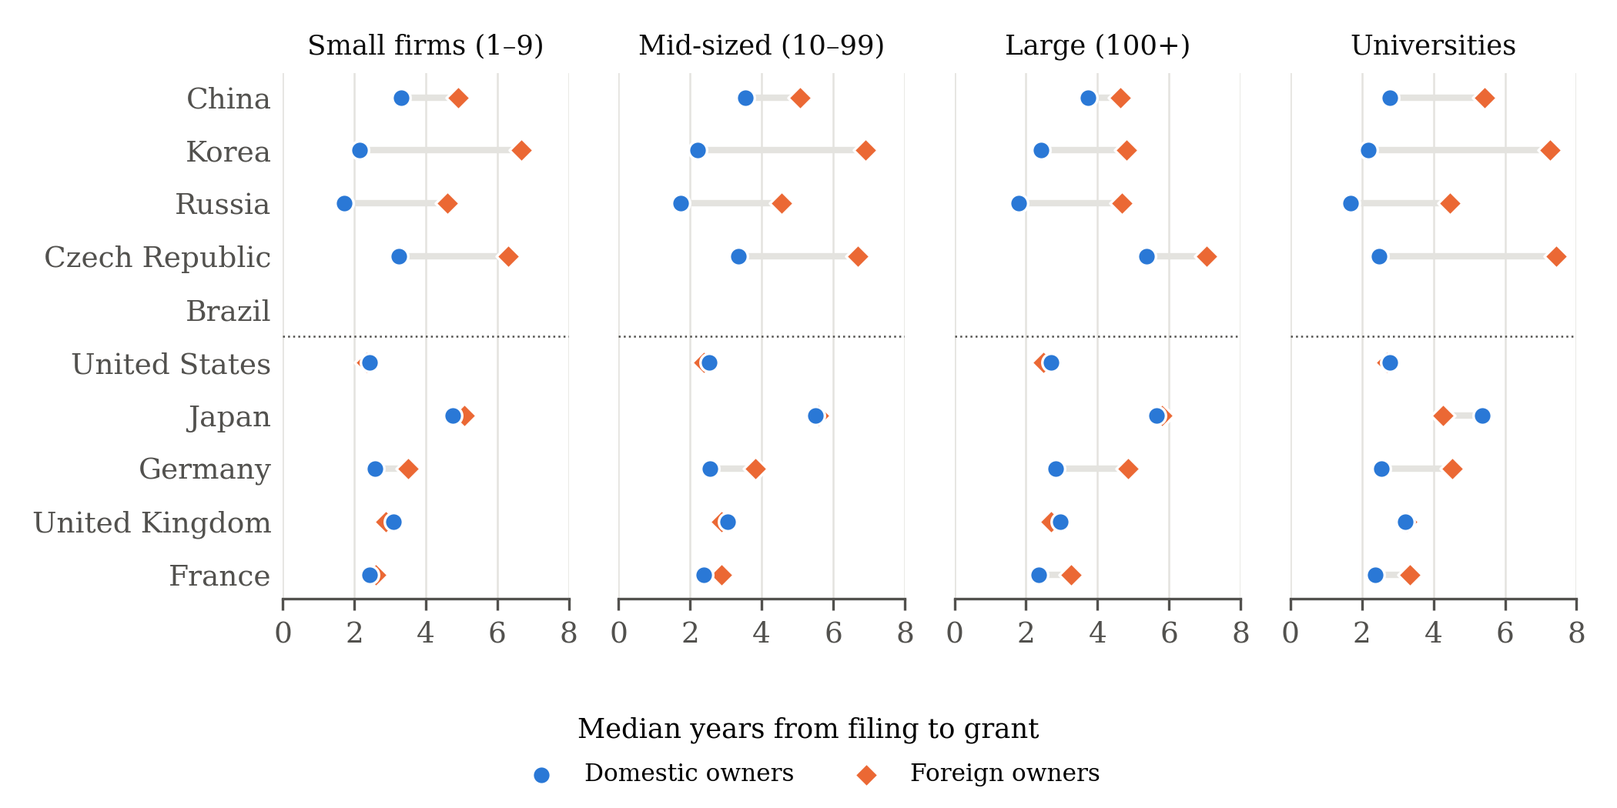
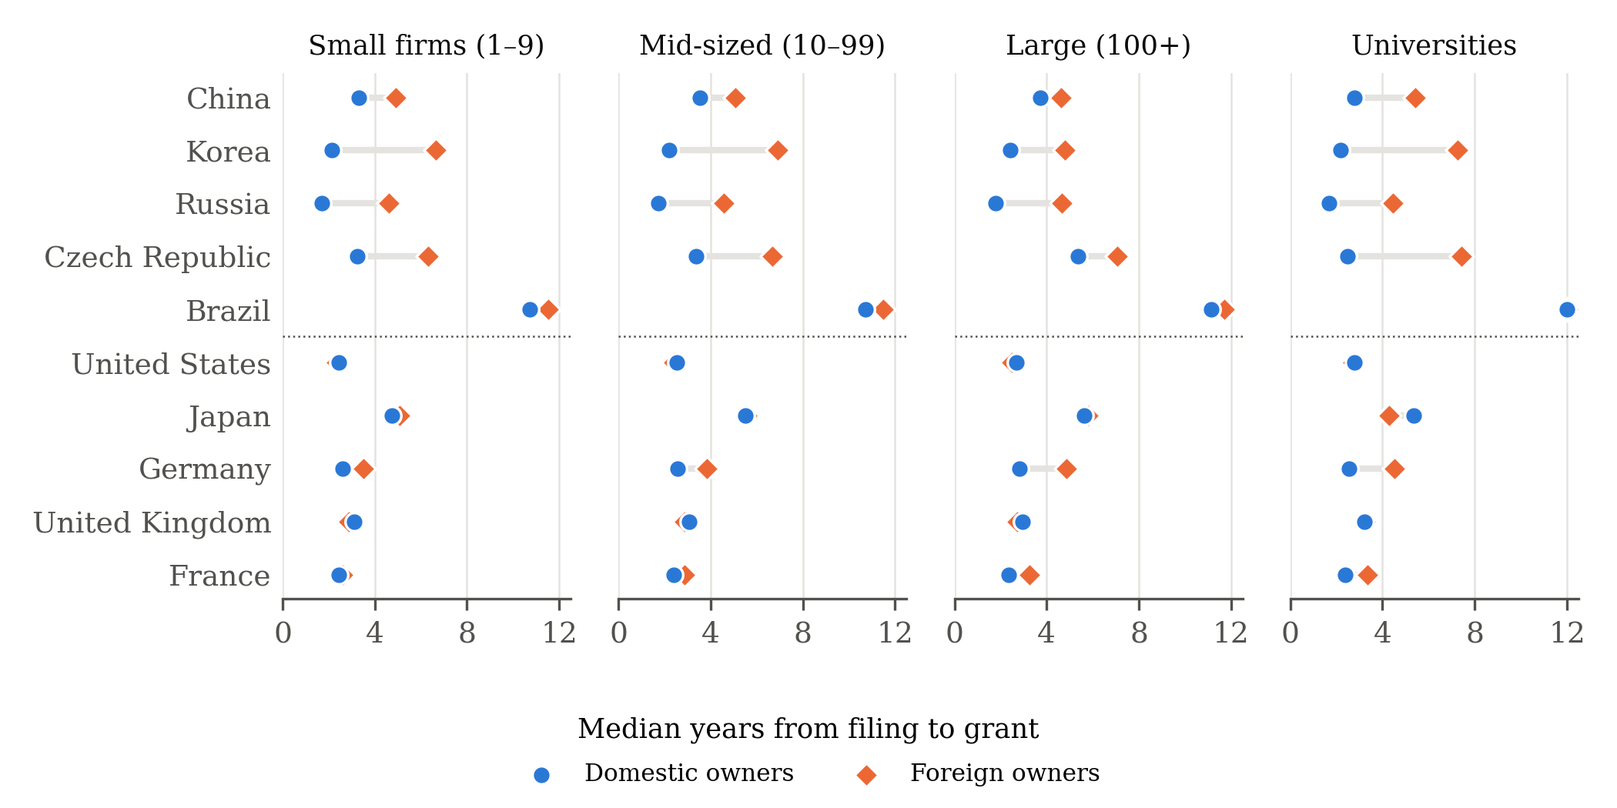
Proofread AER version: stale notes, lever sums, Brazil in Figure S1
Table 2 note listed Taiwan; Figure S1 clipped Brazil; mid-sized lever stated separately ($150m)
instead of the $280m sum; sale-test sentence on mid-sized and large firms matched to Table S5;
Russian all-owner s.e. omitted in Table S8; figure notes and small wording fixes in both versions.

diff --git a/tables/table2.tex b/tables/table2.tex
@@ -40,6 +40,6 @@ Observations & 1{,}274{,}852 & 1{,}274{,}852 & 153{,}531 & 162{,}173 & 869{,}955
 \end{tabular*}
 
 \vspace{4pt}
-\begin{minipage}{\linewidth}\footnotesize\emph{Notes:} Linear probability models of survival eight years after grant; granted patents of firms and universities filed 2000--2005, grant lag up to ten years; coefficients in percentage points. The coefficient on domestic owner $\times$ EM office is $\delta$ in equation~\eqref{eq:did}: the extra domestic--foreign gap in the emerging-market offices (China, Korea, Russia, Taiwan, Czech Republic) relative to the advanced-economy offices (United States, Japan, Germany, United Kingdom, France). Column 1: office $\times$ filing-year effects only. Columns 2--6: office-specific effects of filing year, technology field (35), citation bin (forward citations to the family: 0, 1, 2, 3--4, 5--9, 10--19, 20 or more) and grant lag in whole years, a common domestic $\times$ grant-lag slope, and in column 2 office $\times$ owner-group effects; columns 3--6 are estimated separately for each owner group. The domestic-owner coefficient is the advanced-economy gap at the mean grant lag. Firm size: inventions filed worldwide in 2000--2005 by the owner. Standard errors clustered by owner in parentheses; inference across offices in \SuppTab{S3}{tab:rich}. $^{*}$~$p<0.1$, $^{**}$~$p<0.05$, $^{***}$~$p<0.01$.
+\begin{minipage}{\linewidth}\footnotesize\emph{Notes:} Linear probability models of survival eight years after grant; granted patents of firms and universities filed 2000--2005, grant lag up to ten years (in Brazil, longer if survival eight years after grant is observed); coefficients in percentage points. The coefficient on domestic owner $\times$ EM office is $\delta$ in equation~\eqref{eq:did}: the extra domestic--foreign gap in the emerging-market offices (China, Korea, Russia, Czech Republic, Brazil) relative to the advanced-economy offices (United States, Japan, Germany, United Kingdom, France). Column 1: office $\times$ filing-year effects only. Columns 2--6: office-specific effects of filing year, technology field (35), citation bin (forward citations to the family: 0, 1, 2, 3--4, 5--9, 10--19, 20 or more) and grant lag in whole years, a common domestic $\times$ grant-lag slope, and in column 2 office $\times$ owner-group effects; columns 3--6 are estimated separately for each owner group. The domestic-owner coefficient is the advanced-economy gap at the mean grant lag. Firm size: inventions filed worldwide in 2000--2005 by the owner. Standard errors clustered by owner in parentheses; inference across offices in \SuppTab{S3}{tab:rich}. $^{*}$~$p<0.1$, $^{**}$~$p<0.05$, $^{***}$~$p<0.01$.
 \end{minipage}
 \end{table}

diff --git a/sections/appendix.tex b/sections/appendix.tex
@@ -54,8 +54,7 @@ emerging-market offices I use the five with the most domestic firm patents.
 \includegraphics[width=\textwidth]{figures/fig1_grant_lags.png}
 \caption{Grant lags by owner and firm size}\label{fig:lags}
 \figurenotes{Median years from filing to the first grant publication, patents of Table~\ref{tab:sample}; firm size
-as in Table~\ref{tab:sample}. Circles: domestic owners; diamonds: foreign owners. No Czech firm has 100 or more
-inventions. Many foreign applications enter through the international (PCT) route, which adds up to 30 months before
+as in Table~\ref{tab:sample}. Circles: domestic owners; diamonds: foreign owners. Only one Czech firm, with one patent, has 100 or more inventions; in Brazil, where patents are granted 11--12 years after filing, domestic and foreign owners wait about as long. Many foreign applications enter through the international (PCT) route, which adds up to 30 months before
 national examination begins. Source: em-patent-value output/sample\_lags.csv.}
 \end{figure}
 
@@ -112,7 +111,7 @@ calibrate the markets-for-technology lever.
 \centering
 \includegraphics[width=\textwidth]{figures/fig6_constraints_country.png}
 \caption{Owner-constraint tests by country}\label{fig:constraints-country}
-\figurenotes{Point estimates with 95\% confidence intervals, in percentage points; blue: emerging economies, orange: advanced economies; squares: all firms, circles: small firms (1--9 inventions filed worldwide in 2000--2005), triangles: universities. Arrows: interval beyond the axis; a number replaces a point beyond it. The estimates of Figure~\ref{fig:constraints} by country of origin (A) or office (B, C), specified as in the notes to Figure~\ref{fig:constraints}. n/a: no sales of granted patents recorded (Korea records changes of owner only before grant).}
+\figurenotes{Point estimates with 95\% confidence intervals, in percentage points; blue: emerging economies, orange: advanced economies; squares: all firms, circles: small firms (1--9 inventions filed worldwide in 2000--2005), triangles: universities. Arrows: interval beyond the axis; a number replaces a point beyond it. The estimates of Figure~\ref{fig:constraints} by country of origin (A) or office (B, C), specified as in the notes to Figure~\ref{fig:constraints}. n/a: no sales of granted patents recorded (Korea records changes of owner only before grant; the Czech Republic and the United States record none), records that do not name the owners (Russia, Japan, the United Kingdom) or too few sales (Brazil).}
 \end{figure}
 
 \begin{table}[ht]

diff --git a/aeri/sections/conclusion.tex b/aeri/sections/conclusion.tex
@@ -6,13 +6,12 @@ economy of patent policy favours them for reasons unrelated to their returns.
 
 First, the cheapest and most popular instrument does least. Fee discounts are easy to legislate, visible to small
 firms and cheap, which helps explain their spread. But they mostly pay owners for patents they would have kept
-anyway: with full take-up, China would transfer about \$8 million a cohort to its small firms and universities
-while the returns they earn from their patents would rise by about half a million. Fee relief targets a constraint
+anyway: with full take-up, China would transfer about \$8 million a cohort to its small and mid-sized firms and universities while the returns they earn from their patents would rise by about half a million. Fee relief targets a constraint
 that does not bind.
 
 Second, the returns lie in institutions that are harder to build and whose gains are diffuse. Patents that small
 Chinese firms sell to unrelated buyers survive much longer, and moving such patents to owners able to use them is
-worth up to \$130--280 million a cohort. Markets for technology need registries that record who bought what, courts
+worth up to \$130 million a cohort for small firms and \$150 million for mid-sized firms. Markets for technology need registries that record who bought what, courts
 that enforce licences and intermediaries that match sellers with buyers; even among the ten offices studied, only
 China, Brazil, Germany and France record who the new owner is. Such investments lack a natural constituency: sellers are
 small and dispersed, buyers are often large or foreign firms, and the payoff arrives years later and is hard to
@@ -34,6 +33,5 @@ levers are research capability and links to frontier know-how, and, at the margi
 change hands. Russia, where domestic patents fall well behind at equal quality, is the case in which the owner
 problem may run deeper and deserves closer study.
 
-Two limitations stand out. Only five emerging economies record lapses well enough to study; one of them, Korea, became
-high-income in 2001, and Brazil and the Czech Republic contribute few domestic patents. And renewal values measure private value to the owner, not the social value of the
+Two limitations stand out. Only five emerging economies record lapses well enough to study; one of them, Korea, has been classed as high income since 2001, and Brazil and the Czech Republic contribute few domestic patents. And renewal values measure private value to the owner, not the social value of the
 knowledge a patent spreads.

diff --git a/sections/conclusion.tex b/sections/conclusion.tex
@@ -6,13 +6,12 @@ economy of patent policy favours them for reasons unrelated to their returns.
 
 First, the cheapest and most popular instrument does least. Fee discounts are easy to legislate, visible to small
 firms and cheap, which helps explain their spread. But they mostly pay owners for patents they would have kept
-anyway: with full take-up, China would transfer about \$8 million a cohort to its small firms and universities
-while the returns they earn from their patents would rise by about half a million. Fee relief targets a constraint
+anyway: with full take-up, China would transfer about \$8 million a cohort to its small and mid-sized firms and universities while the returns they earn from their patents would rise by about half a million. Fee relief targets a constraint
 that does not bind.
 
 Second, the returns lie in institutions that are harder to build and whose gains are diffuse. Patents that small
 Chinese firms sell to unrelated buyers survive much longer, and moving such patents to owners able to use them is
-worth up to \$130--280 million a cohort. Markets for technology need registries that record who bought what, courts
+worth up to \$130 million a cohort for small firms and \$150 million for mid-sized firms. Markets for technology need registries that record who bought what, courts
 that enforce licences and intermediaries that match sellers with buyers; even among the ten offices studied, only
 China, Brazil, Germany and France record who the new owner is. Such investments lack a natural constituency: sellers are
 small and dispersed, buyers are often large or foreign firms, and the payoff arrives years later and is hard to
@@ -34,6 +33,5 @@ levers are research capability and links to frontier know-how, and, at the margi
 change hands. Russia, where domestic patents fall well behind at equal quality, is the case in which the owner
 problem may run deeper and deserves closer study.
 
-Two limitations stand out. Only five emerging economies record lapses well enough to study; one of them, Korea, became
-high-income in 2001, and Brazil and the Czech Republic contribute few domestic patents. And renewal values measure private value to the owner, not the social value of the
+Two limitations stand out. Only five emerging economies record lapses well enough to study; one of them, Korea, has been classed as high income since 2001, and Brazil and the Czech Republic contribute few domestic patents. And renewal values measure private value to the owner, not the social value of the
 knowledge a patent spreads.

diff --git a/aeri/sections/supplement_body.tex b/aeri/sections/supplement_body.tex
@@ -54,8 +54,7 @@ emerging-market offices I use the five with the most domestic firm patents.
 \includegraphics[width=\textwidth]{figures/fig1_grant_lags.png}
 \caption{Grant lags by owner and firm size}\label{fig:lags}
 \figurenotes{Median years from filing to the first grant publication, patents of Table~1; firm size
-as in Table~1. Circles: domestic owners; diamonds: foreign owners. No Czech firm has 100 or more
-inventions. Many foreign applications enter through the international (PCT) route, which adds up to 30 months before
+as in Table~1. Circles: domestic owners; diamonds: foreign owners. Only one Czech firm, with one patent, has 100 or more inventions; in Brazil, where patents are granted 11--12 years after filing, domestic and foreign owners wait about as long. Many foreign applications enter through the international (PCT) route, which adds up to 30 months before
 national examination begins. Source: em-patent-value output/sample\_lags.csv.}
 \end{figure}
 
@@ -112,7 +111,7 @@ calibrate the markets-for-technology lever.
 \centering
 \includegraphics[width=\textwidth]{figures/fig6_constraints_country.png}
 \caption{Owner-constraint tests by country}\label{fig:constraints-country}
-\figurenotes{Point estimates with 95\% confidence intervals, in percentage points; blue: emerging economies, orange: advanced economies; squares: all firms, circles: small firms (1--9 inventions filed worldwide in 2000--2005), triangles: universities. Arrows: interval beyond the axis; a number replaces a point beyond it. The estimates of Figure~1 by country of origin (A) or office (B, C), specified as in the notes to Figure~1 of the paper. n/a: no sales of granted patents recorded (Korea records changes of owner only before grant).}
+\figurenotes{Point estimates with 95\% confidence intervals, in percentage points; blue: emerging economies, orange: advanced economies; squares: all firms, circles: small firms (1--9 inventions filed worldwide in 2000--2005), triangles: universities. Arrows: interval beyond the axis; a number replaces a point beyond it. The estimates of Figure~1 by country of origin (A) or office (B, C), specified as in the notes to Figure~1 of the paper. n/a: no sales of granted patents recorded (Korea records changes of owner only before grant; the Czech Republic and the United States record none), records that do not name the owners (Russia, Japan, the United Kingdom) or too few sales (Brazil).}
 \end{figure}
 
 \begin{table}[ht]

diff --git a/tables/tabS_patentvalues.tex b/tables/tabS_patentvalues.tex
@@ -15,7 +15,7 @@ China          & $33^{***}$ & $29^{***}$ & $72^{***}$ & $52^{**}$ & $-59^{***}$ 
 Korea          & $30^{***}$ & $65^{***}$ & $146^{***}$ & $16$ & $60^{**}$ \\
                & (12) & (11) & (19) & (12) & (30) \\
 Russia         & $-74$ & $-3$ & $5$ & $403$ & -- \\
-               & (19994989) & (61) & (84) & (825) &  \\
+               &  & (61) & (84) & (825) &  \\
 Czech Rep.     & $-3$ & $9$ & $-12$ & -- & -- \\
                & (16) & (22) & (20) &  &  \\
 Brazil         & $7$ & $7$ & $-15$ & $23$ & $13$ \\
@@ -35,7 +35,7 @@ France         & $-4$ & $0$ & $6$ & $-6$ & $-38^{*}$ \\
 \bottomrule
 \end{tabular}
 \begin{tablenotes}\footnotesize
-\item \emph{Notes:} Posterior median value at grant of each patent from the learning model with a common prior ($d=0.85$; 2024 PPP dollars), regressed on domestic owner with fee-path $\times$ citation-band and field effects, one regression per office and owner group (all owners: with owner-group effects); firm size by corporate group. Entries are the percentage difference in value, $100(e^{b}-1)$, with delta-method standard errors clustered by owner in parentheses; stars test $b$ on the log scale. Russian values are not identified (\PaperRef{Section~5}{Section~\ref{sec:values}}) and are shown for completeness. --: fewer than 100 domestic patents. $^{*}$~$p<0.1$, $^{**}$~$p<0.05$, $^{***}$~$p<0.01$.
+\item \emph{Notes:} Posterior median value at grant of each patent from the learning model with a common prior ($d=0.85$; 2024 PPP dollars), regressed on domestic owner with fee-path $\times$ citation-band and field effects, one regression per office and owner group (all owners: with owner-group effects); firm size by corporate group. Entries are the percentage difference in value, $100(e^{b}-1)$, with delta-method standard errors clustered by owner in parentheses; stars test $b$ on the log scale. Russian values are not identified (\PaperRef{Section~5}{Section~\ref{sec:values}}) and are shown for completeness; the standard error of the all-owner estimate is too large to report. --: fewer than 100 domestic patents. $^{*}$~$p<0.1$, $^{**}$~$p<0.05$, $^{***}$~$p<0.01$.
 \end{tablenotes}
 \end{threeparttable}
 \end{table}

diff --git a/aeri/sections/introduction.tex b/aeri/sections/introduction.tex
@@ -28,8 +28,7 @@ First, the raw shortfall reflects what is patented. Domestic patents in emerging
 than foreign ones and are granted sooner. Comparing patents with the same citations, technology field and grant lag,
 emerging-market firms keep their patents about as long as comparable firms in the advanced economies
 (Section~\ref{sec:survival}): small firms are level, and mid-sized and large firms 5--8 percentage points ahead.
-Office by office, Chinese mid-sized firms and Korean firms are ahead, while Russia, Czech Republic and Brazil firms are
-behind.
+Office by office, Chinese mid-sized firms and Korean firms are ahead, while Russian firms and mid-sized Czech and Brazilian firms are behind.
 
 Second, three tests look for owner constraints (Section~\ref{sec:constraints}). Two find none: owners keep the home
 patent of an invention longer than its foreign patents, more so in the emerging economies, and credit crunches do not
@@ -50,8 +49,7 @@ the owner matters: once sold to an unrelated firm, Chinese university patents su
 
 I close by pricing the policy levers on a common scale (Section~\ref{sec:stake}). Had every eligible owner taken up
 China's, Korea's and Brazil's fee discounts, the returns from a cohort of patents would have risen by about a million
-dollars or less. Had small Chinese firms' patents earned what they earn in buyers' hands, returns would have risen by up to
-\$130 million per cohort, or \$280 million with mid-sized firms; moving Chinese university patents to firms is worth
+dollars or less. Had small Chinese firms' patents earned what they earn in buyers' hands, returns would have risen by up to \$130 million per cohort, and by up to \$150 million for mid-sized firms; moving Chinese university patents to firms is worth
 up to \$460 million, and raising their returns to what foreign universities' patents earn in China at equal
 citations, \$180--320 million. These are
 rough private returns, not welfare, but the ordering is clear: the gains lie in markets for technology and in what

diff --git a/tables/table1.tex b/tables/table1.tex
@@ -45,7 +45,7 @@ All offices    &   & 110{,}280 & 23{,}078 & 8{,}683 & 13{,}296 & 57{,}221 & 19{,
 \bottomrule
 \end{tabular}
 \begin{tablenotes}\footnotesize
-\item \emph{Notes:} Granted invention patents filed 2000--2005 with a grant lag of up to ten years; individual owners and owners of unknown type excluded. Firm size: inventions (DOCDB families) filed worldwide in 2000--2005 by the owner (harmonised applicants linked by name and by shared patent families); small 1--9, mid-sized 10--99, large 100 or more. Univ.: universities and public research organisations. Panel B: distinct harmonised applicants with at least one sample patent in the office, classed by the size of their group. An owner patenting in several offices is counted in each; All offices counts it once among domestic and once among foreign owners, so the two totals overlap and fall short of the sums over offices. Source: PATSTAT Global, autumn 2025.
+\item \emph{Notes:} Granted invention patents filed 2000--2005 with a grant lag of up to ten years (in Brazil, longer if survival eight years after grant is observed by mid-2025); individual owners and owners of unknown type excluded. Firm size: inventions (DOCDB families) filed worldwide in 2000--2005 by the owner (harmonised applicants linked by name and by shared patent families); small 1--9, mid-sized 10--99, large 100 or more. Univ.: universities and public research organisations. Panel B: distinct harmonised applicants with at least one sample patent in the office, classed by the size of their group. An owner patenting in several offices is counted in each; All offices counts it once among domestic and once among foreign owners, so the two totals overlap and fall short of the sums over offices. Source: PATSTAT Global, autumn 2025.
 \end{tablenotes}
 \end{threeparttable}
 \end{table}

diff --git a/aeri/sections/constraints.tex b/aeri/sections/constraints.tex
@@ -54,7 +54,7 @@ Chinese firms' patents by 11.4 points, against 3.5 in Germany and France, a diff
 Buyers pick good patents everywhere, so the premium itself does not measure what a sale adds; the informative part is
 how much larger it is for small Chinese firm sellers. Because few small German and French firms sell to unrelated
 buyers, the difference is imprecise; counted from grant it is 3.8, and with all recorded transfers in the seven
-offices that record them, 7.0. For mid-sized and large firms there is no difference.
+offices that record them, 7.0. For mid-sized firms the difference is small and imprecise (0.4, and 4.8 counted from grant); for large firms it is negative.
 
 \paragraph{Universities.} Universities behave differently from firms on two of the three tests. Emerging-market
 universities keep the home patent 7.5 points longer than the same invention's foreign patents, against 20.8 for
@@ -72,5 +72,5 @@ discounts, so the test is small against large firms rather than emerging against
 small owners (70\% in the first three fee-years after grant, raised to 85\% and extended to six fee-years in 2016 and
 to ten in 2018) barely changes small firms' lapses: a 10\% lower fee lowers their lapse rate, 3.6\% a year, by about
 0.2\% of its level, not significantly, measured over all eligible firms because take-up is not observed. Small US
-firms respond to changes in the three US maintenance fees about ten times as strongly (2.6\% for a 10\% fee change). Small Chinese firms are not
+firms respond to changes in the three US maintenance fees more than ten times as strongly (2.6\% for a 10\% fee change). Small Chinese firms are not
 more fee-sensitive than small US firms.

diff --git a/sections/constraints.tex b/sections/constraints.tex
@@ -54,7 +54,7 @@ Chinese firms' patents by 11.4 points, against 3.5 in Germany and France, a diff
 Buyers pick good patents everywhere, so the premium itself does not measure what a sale adds; the informative part is
 how much larger it is for small Chinese firm sellers. Because few small German and French firms sell to unrelated
 buyers, the difference is imprecise; counted from grant it is 3.8, and with all recorded transfers in the seven
-offices that record them, 7.0. For mid-sized and large firms there is no difference.
+offices that record them, 7.0. For mid-sized firms the difference is small and imprecise (0.4, and 4.8 counted from grant); for large firms it is negative.
 
 \paragraph{Universities.} Universities behave differently from firms on two of the three tests. Emerging-market
 universities keep the home patent 7.5 points longer than the same invention's foreign patents, against 20.8 for
@@ -72,5 +72,5 @@ discounts, so the test is small against large firms rather than emerging against
 small owners (70\% in the first three fee-years after grant, raised to 85\% and extended to six fee-years in 2016 and
 to ten in 2018) barely changes small firms' lapses: a 10\% lower fee lowers their lapse rate, 3.6\% a year, by about
 0.2\% of its level, not significantly, measured over all eligible firms because take-up is not observed. Small US
-firms respond to changes in the three US maintenance fees about ten times as strongly (2.6\% for a 10\% fee change). Small Chinese firms are not
+firms respond to changes in the three US maintenance fees more than ten times as strongly (2.6\% for a 10\% fee change). Small Chinese firms are not
 more fee-sensitive than small US firms.

diff --git a/sections/survival.tex b/sections/survival.tex
@@ -22,12 +22,12 @@ owners' patents in Japan, by far the largest domestic advantage among the advanc
 
 \paragraph{Robustness.} The small-firm estimate stays within about a point of zero when foreign patents are reweighted
 to the domestic citation distribution, when survival is counted from filing and when domestic and foreign owners pay
-identical fees; mid-sized and large firms stay 2--9 points ahead (Appendix Table~\ref{tab:rich}). Without the
+identical fees; mid-sized and large firms stay ahead, by 1.5--9 points (Appendix Table~\ref{tab:rich}). Without the
 grant-lag controls every estimate is 1--3 points higher, and a bound for selection on unobservables makes
 emerging-market firms look better.
 
 \paragraph{By country.} Appendix Table~\ref{tab:bycountry} compares each emerging-market office with the five
 advanced-economy offices. Small firms are level in China (0.7), ahead in Korea (3.9) and behind in Russia ($-7.9$); mid-sized firms are 8--12
 points ahead in China and Korea and behind in Russia, Brazil and the Czech Republic. Brazil, with about 500 domestic
-firm patents, is measured imprecisely. Russia stands apart: for all owners, its domestic patents are 14 points behind. In China, universities, 19.7
+firm patents, is measured imprecisely. Russia stands apart: for all owners, its domestic patents are 14.5 points behind. In China, universities, 19.7
 points behind, offset most of domestic firms' lead for all owners together.

diff --git a/aeri/sections/survival.tex b/aeri/sections/survival.tex
@@ -23,12 +23,12 @@ Appendix Table~S4).
 
 \paragraph{Robustness.} The small-firm estimate stays within about a point of zero when foreign patents are reweighted
 to the domestic citation distribution, when survival is counted from filing and when domestic and foreign owners pay
-identical fees; mid-sized and large firms stay 2--9 points ahead (Supplemental Appendix Table~S3). Without the
+identical fees; mid-sized and large firms stay ahead, by 1.5--9 points (Supplemental Appendix Table~S3). Without the
 grant-lag controls every estimate is 1--3 points higher, and a bound for selection on unobservables makes
 emerging-market firms look better.
 
 \paragraph{By country.} Supplemental Appendix Table~S2 compares each emerging-market office with the five
 advanced-economy offices. Small firms are level in China (0.7), ahead in Korea (3.9) and behind in Russia ($-7.9$); mid-sized firms are 8--12
 points ahead in China and Korea and behind in Russia, Brazil and the Czech Republic. Brazil, with about 500 domestic
-firm patents, is measured imprecisely. Russia stands apart: for all owners, its domestic patents are 14 points behind. In China, universities, 19.7
+firm patents, is measured imprecisely. Russia stands apart: for all owners, its domestic patents are 14.5 points behind. In China, universities, 19.7
 points behind, offset most of domestic firms' lead for all owners together.
